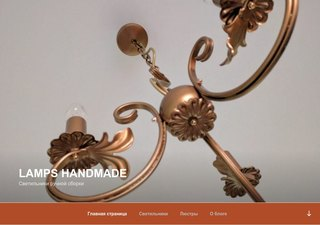
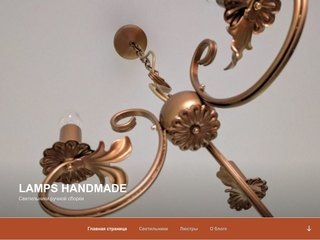
new disign

diff --git a/index.html b/index.html
@@ -19,7 +19,7 @@
         <span class="icon-bar"></span>
         <span class="icon-bar"></span>
       </button>
-      <a class="navbar-brand" href="#">Vasiliy Pokotylo</a>
+      <a class="navbar-brand" href="#">Portfolio Website</a>
     </div>
     <!-- Collect the nav links, forms, and other content for toggling -->
     <div class="collapse navbar-collapse" id="bs-example-navbar-collapse-1">
@@ -36,9 +36,17 @@
 <div class="container-fluid">
 
   <!-- begin row head-section -->
-<div class=" row head-section banner" style="background-image:url(img/andrew-coelho-46451.jpg)">
+<div class=" row banner" style="background-image:url(img/banner.jpg)">
     <div class="col-sm-12">
-    <h1> HELLO! <br> I am junior front-end developer and this is my personal portfolio webpage </h1>
+<!--     <h1> HELLO! <br> I am junior front-end developer and this is my personal portfolio webpage </h1>
+ -->
+<!-- begin head-text -->
+<div class="head-block">
+    <p class="head-block-text">Vasiliy Pokotylo</p>
+    <h1>Junior Front-end Developer</h1>
+    <p class="head-block-text">Hello and welcome to my personal portfolio website!</p>
+</div>
+<!-- end head-text -->
     </div>
 </div >
   <!-- end row head-section -->
@@ -52,33 +60,39 @@
             <a class="" href="https://asyntrail.github.io/blog" target="-blank"><img class="img-responsive img-xs-center transform-animation" src="img/blog-thumb.jpg" alt="Blog page template"></a>
             <h3 class="text-uppercase">Blog</h3>
             <a class="portfolio-link" href="https://asyntrail.github.io/blog" target="-blank">https://asyntrail.github.io/blog</a>
-            <p class="portfolo-description">Blog page template, without any fraimwork and java scripts, has responsive design. <br>Technologies: HTML5, CSS3.</p>
+            <p class="portfolo-description">Blog page template, without any framework and java scripts, has responsive design. <br>Technologies: HTML5, CSS3.</p>
         </div>
          <div class="col-md-4 col-sm-6 col-margin">
             <a href="https://asyntrail.github.io/clinic" target="-blank" ><img class="img-responsive img-xs-center transform-animation " src="img/clinic-thumb.jpg" alt="Online clinic page template"></a>
            <h3 class="text-uppercase">Online clinic</h3>
            <a class="portfolio-link" href="https://asyntrail.github.io/clinic" target="-blank">https://asyntrail.github.io/clinic</a>
-           <p class="portfolo-description">Online clinic page template, has responsive desing and java scripts. <br>Technologies: HTML5, Bootstrap3, CSS3, JS.</p>
+           <p class="portfolo-description">Online clinic page template, has responsive design and java scripts. <br>Technologies: HTML5, Bootstrap3, CSS3, JS.</p>
         </div>
-         <div class="col-md-4 col-sm-6 col-margin">
+        <div class="col-md-4 col-sm-6 col-margin">
             <a href="https://asyntrail.github.io/restaurant" target="-blank"><img class="img-responsive img-xs-center transform-animation" src="img/restaurant-thumb.jpg" alt="Restaurant page template"></a>
             <h3 class="text-uppercase">Restaurant service</h3>
             <a class="portfolio-link" href="https://asyntrail.github.io/restaurant" target="-blank"><p>https://asyntrail.github.io/restaurant </p> </a>
-            <p class="portfolo-description">Restaurant page template, has responsive desing and java scripts. <br>Technologies: HTML5, Bootstrap3, CSS3, JS.</p>
+            <p class="portfolo-description">Restaurant page template, has responsive design and java scripts. <br>Technologies: HTML5, Bootstrap3, CSS3, JS.</p>
         </div>
         <div class="col-md-4 col-sm-6 col-margin">
             <a href="http://lampshm.kl.com.ua/" target="-blank"><img class="img-responsive img-xs-center transform-animation" src="img/lampshm-thumb.jpg" alt="Page"></a>
             <h3 class="text-uppercase">LAMPS HANDMADE</h3>
             <a class="portfolio-link" href="http://lampshm.kl.com.ua/" target="-blank">http://lampshm.kl.com.ua</a>
-            <p class="portfolo-description">Custom blog on WordPress, responsive theme.<br>Technologies: CMS Wordpress.</p>
-          </div>
+            <p class="portfolo-description">Custom blog on WordPress, responsive theme.<br>Technologies: CMS WordPress.</p>
+        </div>
+        <div class="col-md-4 col-sm-6 col-margin">
+            <a class="" href="https://asyntrail.github.io/transport/" target="-blank"><img class="img-responsive img-xs-center transform-animation" src="img/transport-thumb.jpg" alt="Blog page template"></a>
+            <h3 class="text-uppercase">Transport service</h3>
+            <a class="portfolio-link" href="https://asyntrail.github.io/transport/" target="-blank">https://asyntrail.github.io/transport/</a>
+            <p class="portfolo-description">Page template without any framework, has responsive design and responsive sidebar menu. <br>Technologies: HTML5, CSS3, JS.</p>
+        </div>
     </div>
     <!-- end container  -->
    </div>
    <!-- end row portfolio -->
 
    <!-- begin row theme -->
-   <div class="row theme" style="background-image:url(img/andrew-coelho-46451.jpg)" id="about">
+   <div class="row " id="about">
       <!-- begin container about-->
      <div class="container about"  >
        <h3 class="title text-center">ABOUT</h3>
@@ -92,9 +106,13 @@
         </div>
       </div>
       <!-- end container about-->
+    </div>
+    <!-- end row about -->
 
+  <!-- begin row contact-->
+  <div class="row contact">
   <!-- begin container contact-->
-  <div class="container contact" id="contact">
+  <div class="container " id="contact">
       <h3 class="title text-center">CONTACT</h3>
         <div class="col-sm-6 social-btn">
         <a class="btn btn-lg btn-warning btn-block" href="mailto:asyntrail@gmail.com" role="button"><span class=" glyphicon glyphicon-envelope" aria-hidden="true"></span> Send Email</a>
@@ -106,16 +124,15 @@
        </div>
   </div>
   <!-- end container contact-->
-
-</div>
-<!-- end row theme -->
+  </div>
+  <!-- end row contact -->
 
 <!-- begin footer -->
-<div class=" row footer">
+<div class="row footer">
     <div class="col-sm-6  text-center footer-padding">
-      Background photo by  <a href="https://unsplash.com/@andrewcoelho?utm_medium=referral&utm_campaign=photographer-credit&utm_content=creditBadge"> Andrew Coelho / Unsplash.com</a>
+      <span> Photo by  <a class="portfolio-link" href="https://unsplash.com/photos/5brvJbR1Pn8" target="_blank"> Matthew Kane / Unsplash.com</a></span>
      </div>
-     <div class="col-sm-6  text-center footer-padding "><span > Vasiliy Pokotylo © 2017, All rights reserved.</span></div>
+     <div class="col-sm-6  text-center footer-padding "><span > Vasiliy Pokotylo © 2018, All rights reserved.</span></div>
 </div>
 <!-- end footer -->
 

diff --git a/css/style.css b/css/style.css
@@ -1,11 +1,11 @@
 body{
-  font-family: Monospace;
-  background:#323144;
-  color:white;
+/*  font-family: roboto;*/
+  background:white;
+  color: #5a90ba;
 }
 
 .navbar{
-  background-color:rgba(74, 79, 111, 0.9);
+  background-color:rgba(66, 183, 202, 0.3);
   margin:0px;
   color:white;
   border: 0px;
@@ -17,7 +17,7 @@ body{
 }
 
 .navbar-default .navbar-header .navbar-brand:hover{
-  color:#0de8ee;
+  color:#5a90ba;
 }
 
 .navbar-default .navbar-nav {
@@ -33,19 +33,45 @@ body{
 }
 
 .navbar-default .navbar-nav li .li-color:hover{
-  color: #0de8ee;
+  color: #5a90ba;
 }
 
 .banner{
-  min-height:450px;
-  color:white;
+  min-height:590px;
+  color:#5a90ba;
   padding-top:130px;
   text-align:center;
+  background: white;
+  background-position: 50% 80%;
+  background-size: cover;
+  background-repeat: no-repeat;
+}
+
+.head-block{
+  margin-top: 190px;
+}
+
+h1{
+  font-family: impact;
+  margin-top: 10px;
+}
+
+h1::after{
+    content: "";
+    display:block;
+    margin:5px auto 0;
+    background-color:rgba(66, 183, 202, 1);
+    width:150px;
+    height: 3px;
+}
+
+.head-block-text{
+  font-size: 25px;
+  font-family:Roboto;
 }
 
 .portfolio{
-  background:#323144;
-  color:white;
+  background:rgba(66, 183, 202, 0.3);
   padding-bottom: 60px;
 }
 
@@ -58,7 +84,7 @@ body{
   margin-bottom: 40px;
   padding-top: 20px;
   text-align:center;
-  color:white;
+  color:#5a90ba;
 }
 
 .portfolio-link{
@@ -75,34 +101,29 @@ body{
   font-family: verdana;
 }
 
+.col-md-4{
+  height: 424px;
+}
+
 .col-margin{
   margin-bottom:30px
 }
 
-.theme{
-  background-size:cover;
-  background-position: 60% 62%;
-  background-repeat: no-repeat;
-}
-
 .contact{
   min-height:400px;
+  background: #ede3e1;
 }
 
 .about{
-  min-height:400px;
-  font-family: verdana;
+  min-height:500px;
+
 }
 
 .about-description{
   text-align: center;
-  font-size: 22px;
+    font-family: roboto;
+  font-size: 27px;
   margin-bottom: 40px;
-}
-
-.contact{
-  min-height:400px;
-  background-color:rgba(74, 79, 111, 0.3);
 }
 
 .social-btn{
@@ -120,7 +141,7 @@ body{
 
 .footer{
     min-height:40px;
-    background:#323144;
+    background:rgba(66, 183, 202, 0.3);
 }
 
 .footer-padding{
